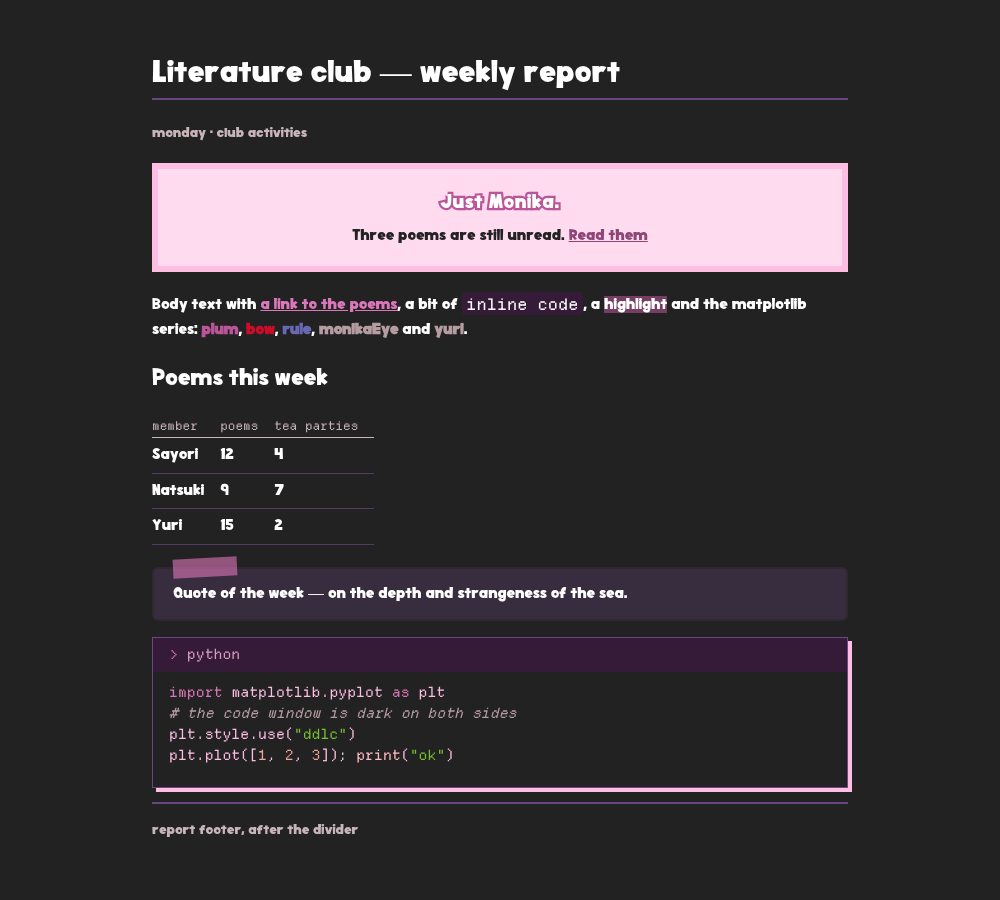
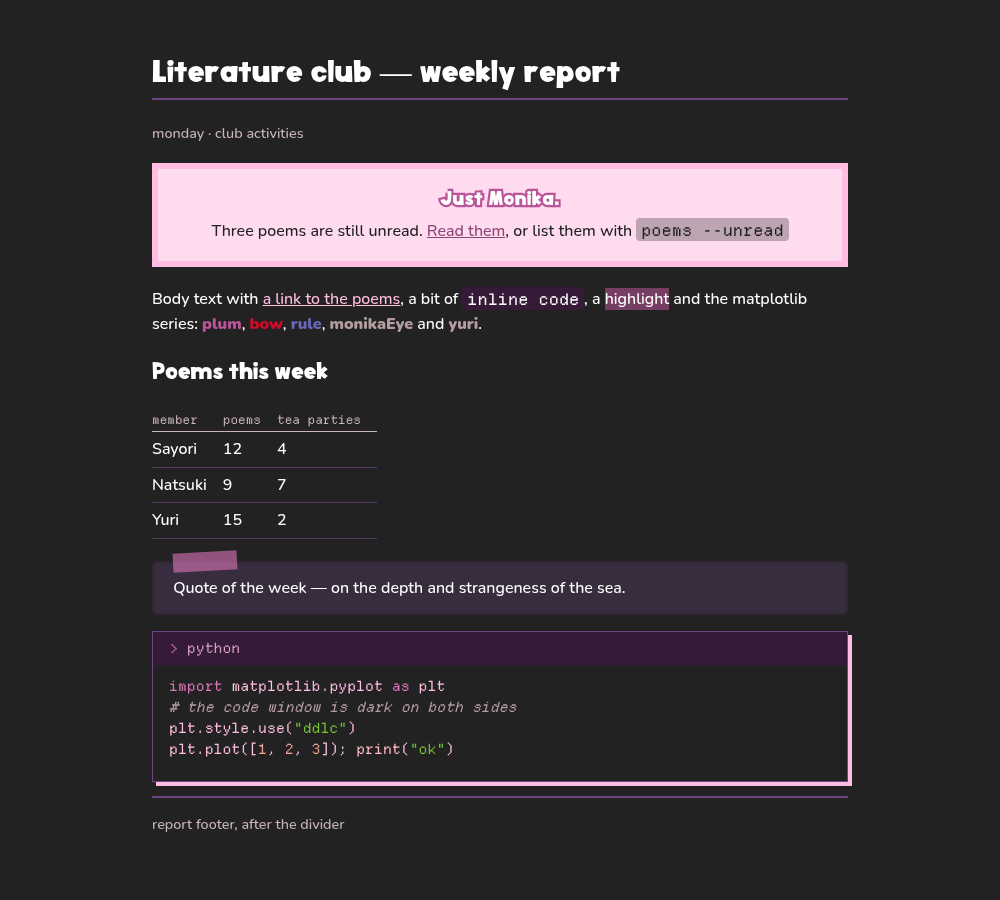
Give inline code in the report's pop-up a pale ground
The pop-up keeps a pale ground on ink, so it writes in ink there. Its
inline code still took --ddlc-code-ground, which is yuriShadow on ink,
so the ink text sat on a dark plum pill and could not be read. A new
role, popup-code, is dot on paper and dot mixed with a third of the
ink on ink: the pale ground the paper side already had, kept pale on
both.

The rule needs two selectors: .ddlc-inform :not(pre) > code alone
misses code that is a direct child of the pop-up, because the
descendant combinator wants an element in between.

docs/report-demo.html carries code inside the pop-up now, and the
report screenshots are retaken from it.

Assisted-by: pi:deepseek-v4.1-flash (mostly)

diff --git a/dist/ddlc-report.css b/dist/ddlc-report.css
@@ -74,6 +74,7 @@
   --ddlc-popup-frame: var(--ddlc-blush);
   --ddlc-popup-text: var(--ddlc-ink);
   --ddlc-popup-accent: light-dark(var(--ddlc-plum), color-mix(in srgb, var(--ddlc-plum) 70%, var(--ddlc-ink)));
+  --ddlc-popup-code: light-dark(var(--ddlc-dot), color-mix(in srgb, var(--ddlc-dot) 70%, var(--ddlc-ink)));
   --ddlc-tape: light-dark(color-mix(in srgb, var(--ddlc-blush) 70%, transparent), color-mix(in srgb, var(--ddlc-pink) 60%, transparent));
   --ddlc-board: light-dark(color-mix(in srgb, var(--ddlc-dot) 50%, var(--ddlc-paper)), color-mix(in srgb, var(--ddlc-yuri) 30%, var(--ddlc-ink)));
   --ddlc-board-shade: light-dark(color-mix(in srgb, var(--ddlc-board) 80%, var(--ddlc-jacket)), color-mix(in srgb, var(--ddlc-board) 60%, var(--ddlc-ink)));
@@ -419,6 +420,15 @@ blockquote > :last-child {
 
 .ddlc-inform pre {
   text-align: start;
+}
+
+/* The pop-up is a pale island, so code in it stands on the pop-up's own pale ground rather
+   than the page's, which is dark on ink. The second selector takes code in a paragraph, the
+   first one code straight in the pop-up; neither reaches a code block, which paints its own
+   window */
+.ddlc-inform > code,
+.ddlc-inform :not(pre) > code {
+  background: var(--ddlc-popup-code);
 }
 
 .ddlc-inform-title {

diff --git a/docs/report-demo.html b/docs/report-demo.html
@@ -15,7 +15,7 @@
 <body>
 <h1>Literature club — weekly report</h1>
 <p class="ddlc-muted">monday · club activities</p>
-<div class="ddlc-inform"><span class="ddlc-inform-title">Just Monika.</span>Three poems are still unread. <a href="#">Read them</a></div>
+<div class="ddlc-inform"><span class="ddlc-inform-title">Just Monika.</span>Three poems are still unread. <a href="#">Read them</a>, or list them with <code>poems --unread</code></div>
 <p>Body text with <a href="#">a link to the poems</a>, a bit of <code>inline code</code>, a <mark>highlight</mark> and the matplotlib series: <b class="ddlc-series-1">plum</b>, <b class="ddlc-series-2">bow</b>, <b class="ddlc-series-3">rule</b>, <b class="ddlc-series-4">monikaEye</b> and <b class="ddlc-series-5">yuri</b>.</p>
 <h2>Poems this week</h2>
 <table>

diff --git a/dist/ddlc-tokens.css b/dist/ddlc-tokens.css
@@ -30,6 +30,7 @@
   --ddlc-popup-frame: var(--ddlc-blush);
   --ddlc-popup-text: var(--ddlc-ink);
   --ddlc-popup-accent: light-dark(var(--ddlc-plum), color-mix(in srgb, var(--ddlc-plum) 70%, var(--ddlc-ink)));
+  --ddlc-popup-code: light-dark(var(--ddlc-dot), color-mix(in srgb, var(--ddlc-dot) 70%, var(--ddlc-ink)));
   --ddlc-tape: light-dark(color-mix(in srgb, var(--ddlc-blush) 70%, transparent), color-mix(in srgb, var(--ddlc-pink) 60%, transparent));
   --ddlc-board: light-dark(color-mix(in srgb, var(--ddlc-dot) 50%, var(--ddlc-paper)), color-mix(in srgb, var(--ddlc-yuri) 30%, var(--ddlc-ink)));
   --ddlc-board-shade: light-dark(color-mix(in srgb, var(--ddlc-board) 80%, var(--ddlc-jacket)), color-mix(in srgb, var(--ddlc-board) 60%, var(--ddlc-ink)));

diff --git a/dist/ddlc-ui.css b/dist/ddlc-ui.css
@@ -73,6 +73,7 @@
   --ddlc-popup-frame: var(--ddlc-blush);
   --ddlc-popup-text: var(--ddlc-ink);
   --ddlc-popup-accent: light-dark(var(--ddlc-plum), color-mix(in srgb, var(--ddlc-plum) 70%, var(--ddlc-ink)));
+  --ddlc-popup-code: light-dark(var(--ddlc-dot), color-mix(in srgb, var(--ddlc-dot) 70%, var(--ddlc-ink)));
   --ddlc-tape: light-dark(color-mix(in srgb, var(--ddlc-blush) 70%, transparent), color-mix(in srgb, var(--ddlc-pink) 60%, transparent));
   --ddlc-board: light-dark(color-mix(in srgb, var(--ddlc-dot) 50%, var(--ddlc-paper)), color-mix(in srgb, var(--ddlc-yuri) 30%, var(--ddlc-ink)));
   --ddlc-board-shade: light-dark(color-mix(in srgb, var(--ddlc-board) 80%, var(--ddlc-jacket)), color-mix(in srgb, var(--ddlc-board) 60%, var(--ddlc-ink)));

diff --git a/src/report.css b/src/report.css
@@ -255,6 +255,15 @@ blockquote > :last-child {
   text-align: start;
 }
 
+/* The pop-up is a pale island, so code in it stands on the pop-up's own pale ground rather
+   than the page's, which is dark on ink. The second selector takes code in a paragraph, the
+   first one code straight in the pop-up; neither reaches a code block, which paints its own
+   window */
+.ddlc-inform > code,
+.ddlc-inform :not(pre) > code {
+  background: var(--ddlc-popup-code);
+}
+
 .ddlc-inform-title {
   display: block;
   margin-bottom: 0.3em;

diff --git a/CHANGELOG.md b/CHANGELOG.md
@@ -4,6 +4,11 @@ Kept in the shape of [Keep a Changelog](https://keepachangelog.com/en/1.1.0/), v
 
 ## [Unreleased]
 
+### Fixed
+
+- the report's pop-up title is set in the heading face, as a heading is: Doki where it is installed and Mya Nunito Black otherwise, or Mya Nunito Black with `data-ddlc-heading="plain"`. It inherited the prose face, so it drew in Medium
+- inline code in the report's pop-up stands on a new role, `popup-code`: `dot` on paper and, on ink, `dot` mixed with a third of the ink, so it stays a pale ground in both variants. It took the page's code ground, which is dark on ink, so the ink text inside the pop-up was unreadable there
+
 ## [3.5.0] - 2026-10-25
 
 ### Added
